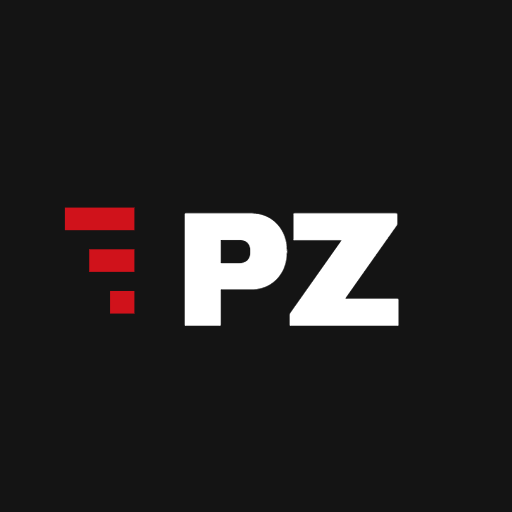
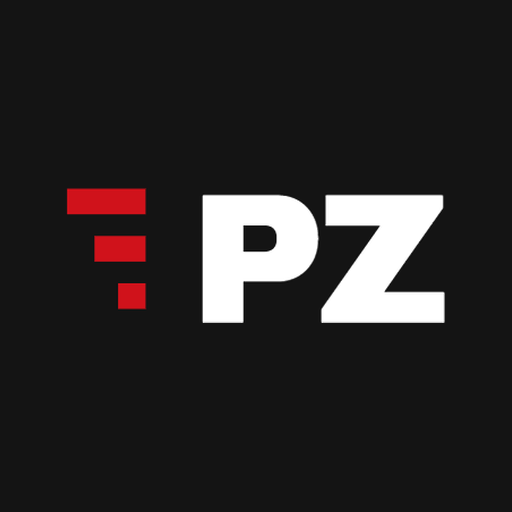
Split into separate admin and cars installable apps
Replace the single manifest with static admin and cars manifests, each with
its own id, scope and iOS title. Move the input base rule into the base
layer with a scoped 44px minimum, move the tab bar spacer into the tab bar,
open the Cars tab in a new context, and recentre the maskable icon.

Changed region(s): [[0.3438, 0.375, 0.875, 0.6562], [0.125, 0.3438, 0.3125, 0.625]]

diff --git a/components/admin/AdminTabBar.tsx b/components/admin/AdminTabBar.tsx
@@ -5,11 +5,13 @@ import { usePathname } from 'next/navigation'
 import { Car, ClipboardList, Archive, Plus } from 'lucide-react'
 import { cn } from '@/lib/utils'
 
+// Cars is the public showcase, a separate app outside the admin scope, so it
+// opens in its own context instead of replacing the admin app's window.
 const TABS = [
-  { href: '/admin', label: 'Inventory', Icon: ClipboardList },
-  { href: '/admin/inventory/new', label: 'Add', Icon: Plus },
-  { href: '/admin/archive', label: 'Archive', Icon: Archive },
-  { href: '/cars', label: 'Cars', Icon: Car },
+  { href: '/admin', label: 'Inventory', Icon: ClipboardList, external: false },
+  { href: '/admin/inventory/new', label: 'Add', Icon: Plus, external: false },
+  { href: '/admin/archive', label: 'Archive', Icon: Archive, external: false },
+  { href: '/cars', label: 'Cars', Icon: Car, external: true },
 ]
 
 // The add and edit forms hide the bar: it would ride above the on-screen
@@ -27,18 +29,24 @@ export function AdminTabBar() {
   if (isFormRoute(pathname)) return null
 
   return (
-    <nav
+    <>
+      {/* In-flow spacer the height of the bar (h-14 + 1px border + inset), so
+          the last card is never under it. Renders on the same routes as the
+          bar, so the form routes get no dead space. */}
+      <div aria-hidden="true" className="h-[calc(3.5rem+1px+env(safe-area-inset-bottom))] md:hidden" />
+      <nav
       aria-label="Admin"
       className="fixed inset-x-0 bottom-0 z-40 border-t border-hairline bg-white pb-[env(safe-area-inset-bottom)] pl-[env(safe-area-inset-left)] pr-[env(safe-area-inset-right)] md:hidden"
     >
       <ul className="grid grid-cols-4">
-        {TABS.map(({ href, label, Icon }) => {
+        {TABS.map(({ href, label, Icon, external }) => {
           const active = isActive(pathname, href)
           return (
             <li key={href}>
               <Link
                 href={href}
                 aria-current={active ? 'page' : undefined}
+                {...(external ? { target: '_blank', rel: 'noopener' } : {})}
                 className={cn(
                   'flex h-14 flex-col items-center justify-center gap-0.5 font-body text-caption motion-safe:transition-colors',
                   active ? 'font-semibold text-ink' : 'text-text-muted'
@@ -51,6 +59,7 @@ export function AdminTabBar() {
           )
         })}
       </ul>
-    </nav>
+      </nav>
+    </>
   )
 }

diff --git a/app/admin/layout.tsx b/app/admin/layout.tsx
@@ -1,7 +1,17 @@
+import type { Metadata } from 'next'
 import Link from 'next/link'
 import { Wordmark } from '@/components/theme/Logo'
 import { SignOutButton } from '@/components/admin/SignOutButton'
 import { AdminTabBar } from '@/components/admin/AdminTabBar'
+
+// The manifest lives in public/, outside /admin: the proxy redirects every
+// /admin/** request to /login when signed out, and a redirected manifest
+// breaks install. appleWebApp replaces the root's wholesale, so it repeats
+// capable and statusBarStyle.
+export const metadata: Metadata = {
+  manifest: '/manifest-admin.webmanifest',
+  appleWebApp: { capable: true, title: 'PZ Admin', statusBarStyle: 'black' },
+}
 
 export default function AdminLayout({ children }: { children: React.ReactNode }) {
   return (
@@ -34,8 +44,7 @@ export default function AdminLayout({ children }: { children: React.ReactNode })
         </div>
       </header>
       <div className="pl-[env(safe-area-inset-left)] pr-[env(safe-area-inset-right)]">
-        {/* Bottom padding clears the fixed tab bar below md. */}
-        <main className="mx-auto max-w-[1280px] px-4 md:px-8 pt-8 pb-[calc(5rem+env(safe-area-inset-bottom))] md:pb-8">
+        <main className="mx-auto max-w-[1280px] px-4 md:px-8 py-8">
           {children}
         </main>
       </div>

diff --git a/app/globals.css b/app/globals.css
@@ -109,19 +109,21 @@ html {
   text-size-adjust: 100%;
 }
 
-/* iOS Safari zooms the page when an input under 16px takes focus. Unlayered
-   on purpose: it beats any text-* utility on a form control, so no field can
-   drop below 16px by accident. The min-height is the 44px tap target. */
-input,
-select,
-textarea {
-  font-size: 1rem;
-}
+/* iOS Safari zooms the page when an input under 16px takes focus. In the base
+   layer so a utility can still override a control on purpose. The 44px
+   min-height is the tap target for text-entry controls only. */
+@layer base {
+  input,
+  select,
+  textarea {
+    font-size: 1rem;
+  }
 
-input:not([type="checkbox"]):not([type="radio"]),
-select,
-textarea {
-  min-height: 2.75rem;
+  input:not([type="checkbox"]):not([type="radio"]):not([type="range"]):not([type="file"]):not([type="hidden"]),
+  select,
+  textarea {
+    min-height: 2.75rem;
+  }
 }
 
 /* Pull-to-refresh would reload a half-filled car form and strand its

diff --git a/app/(public)/layout.tsx b/app/(public)/layout.tsx
@@ -1,4 +1,13 @@
+import type { Metadata } from 'next'
 import { PublicFooter } from '@/components/showcase/PublicFooter'
+
+// The landing page and /cars pages all install the cars showcase. Chrome
+// doesn't require the page to sit inside the manifest's scope, so the
+// landing page can offer the install too.
+export const metadata: Metadata = {
+  manifest: '/manifest-cars.webmanifest',
+  appleWebApp: { capable: true, title: 'PZ Autos', statusBarStyle: 'black' },
+}
 
 // Each page renders its own <PublicHeader> (with or without the back
 // button) — the listing is a root screen and stays bare, while a car's
